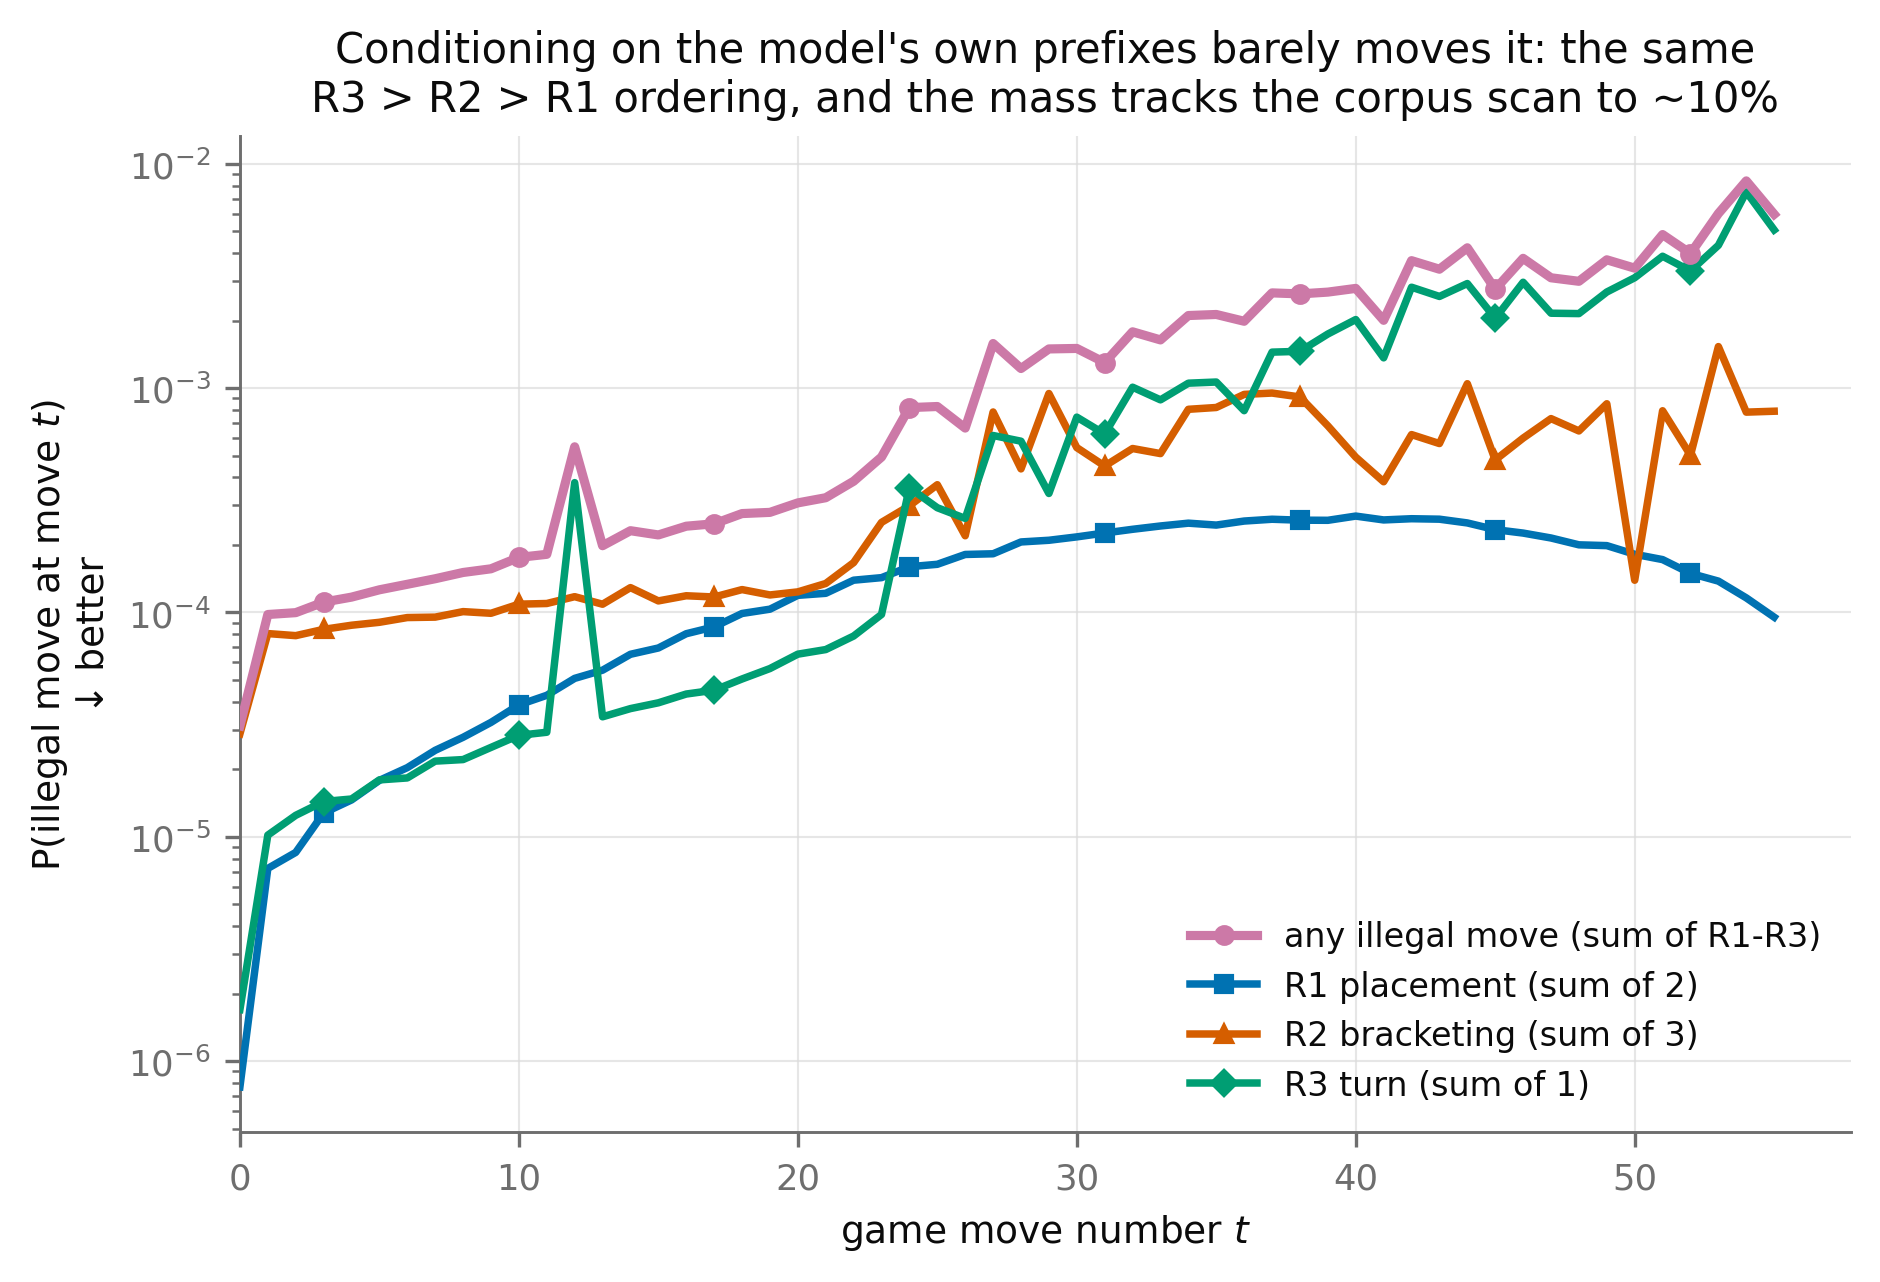
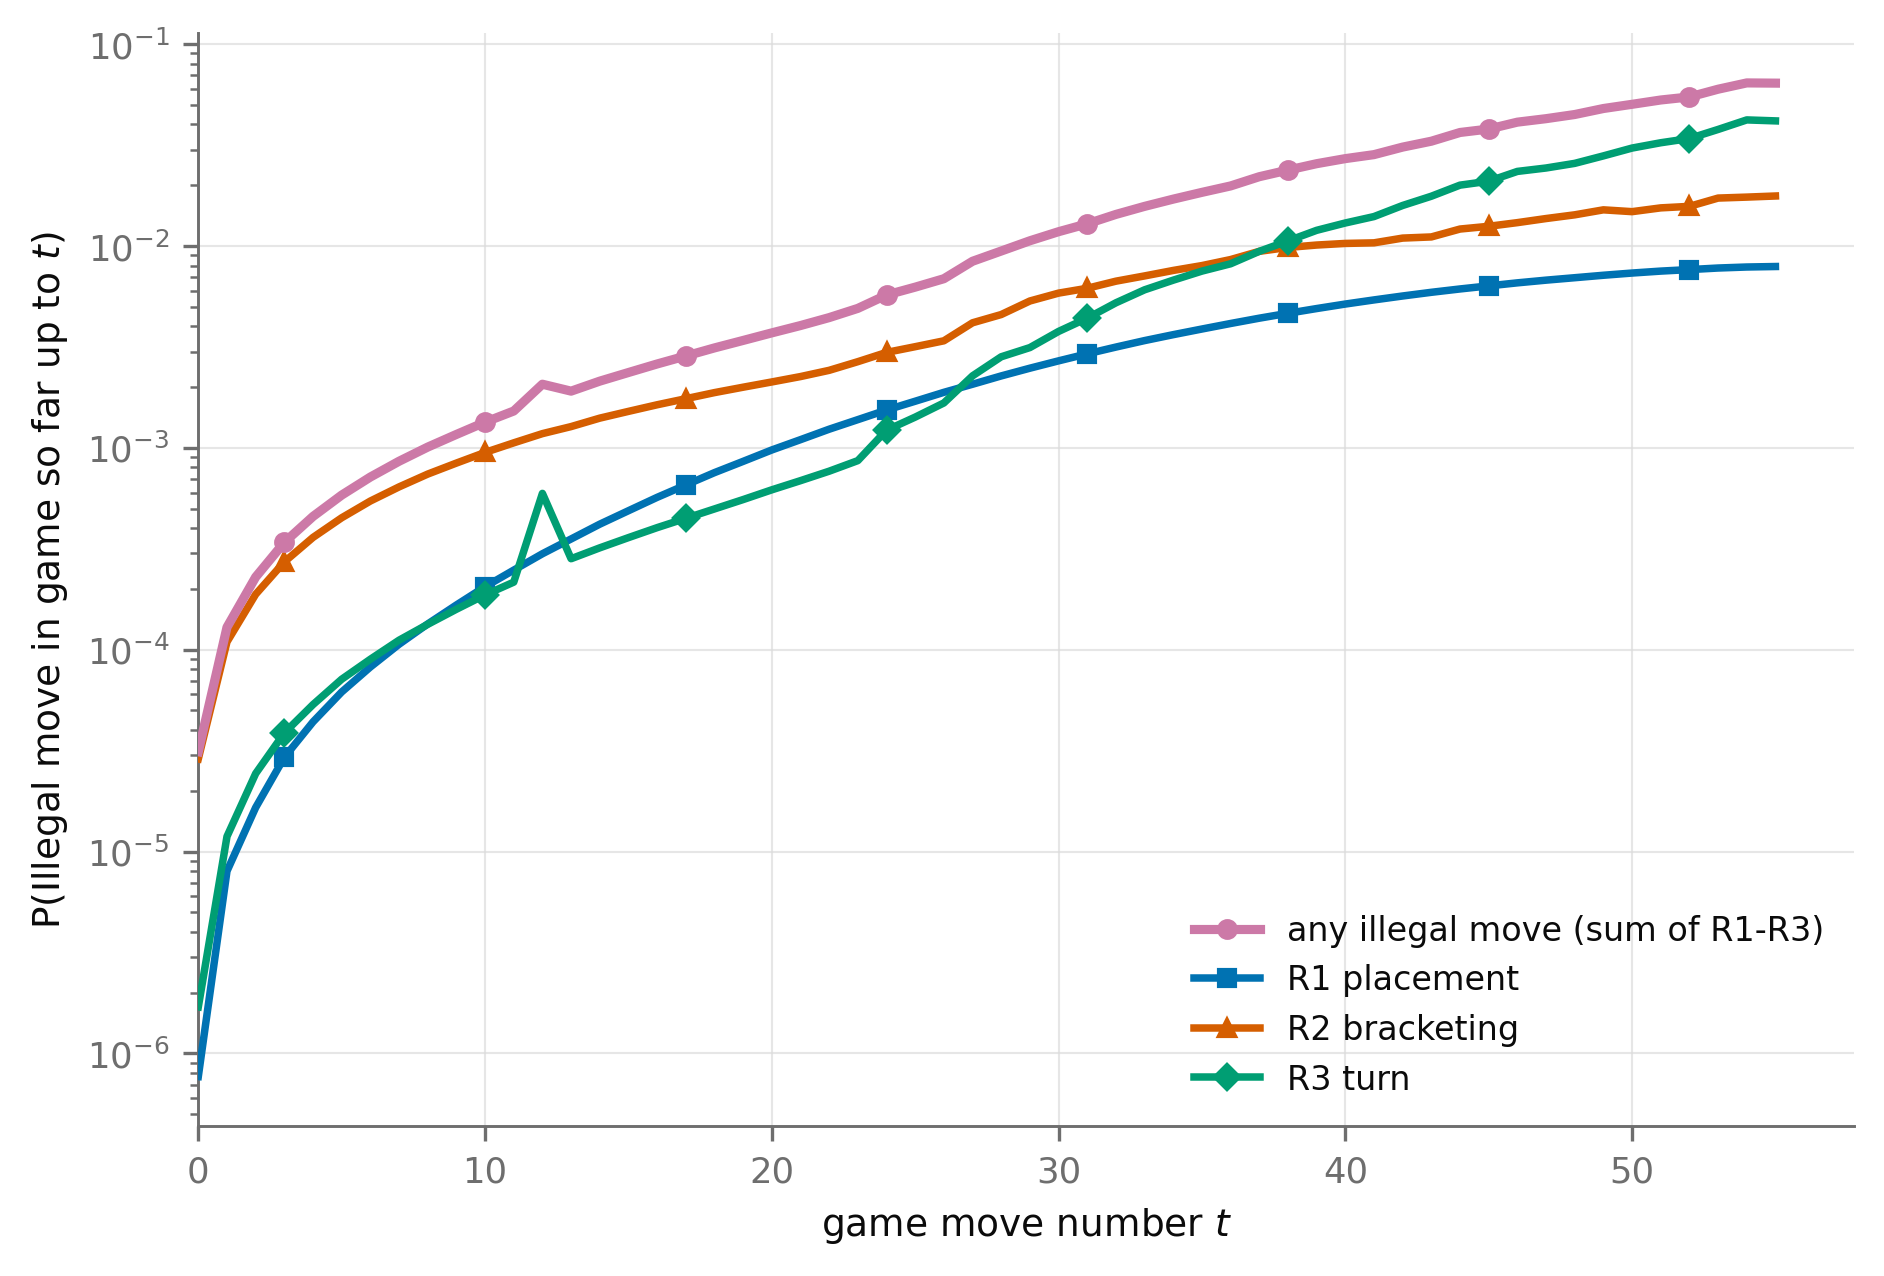
Generation legality F2: accumulate the mass along t
The by-rule rollout panel asked "how much illegal mass sits here" when the
question it is next to is "has this game gone illegal yet". It now draws
cum_*, 1 - prod(1 - p) composed per game along its alive prefix -- computed
in aggregate.py, so make_figures stays drawing-only.

The legend drops (sum of N): a composition over plies of a sum over
categories is neither. The title goes with it; the caption is the README's.
The curve dips at t = 13, 50, 55, where games leave the table -- a per-game
cumulative only rises, a mean over survivors need not, and the README,
docstring and PROCESS all say so.

diff --git a/analysis/generation_legality/make_figures.py b/analysis/generation_legality/make_figures.py
@@ -3,7 +3,8 @@
 F1 `generation_legality` — two panels of one study on one canvas:
     (a) by move t, has the model played an illegal move yet? Games it generated itself.
     (b) at move t, how likely is an illegal move of each rule? Corpus prefixes.
-F2 `generation_legality_by_rule_rollout` — (b) on prefixes the model generated for itself
+F2 `generation_legality_by_rule_rollout` — by move t, how likely is it that the game has
+    taken an illegal move of each rule already? Prefixes the model generated for itself.
 
 (a) and (b) sit in one figure because neither answers the other's question: (a) says the
 model does emit illegal moves while it plays, (b) says which of the three constraint rules
@@ -15,15 +16,20 @@ accumulated, or (a) as a per-move rate, is the misreading the pair invites, so e
 states which it is on its y axis. Their prefix distributions differ too -- (a)'s games the
 model wrote, (b)'s games handed to it -- and that is what each panel title says.
 
-F2 is (b) exactly, drawn by the same function, and differs only in where the legal prefix
-came from. It is conditional on survival -- a rollout leaves the table at its first illegal
-move -- so its n falls along the move axis. (b) conditions on a legal prefix too, which is
-what makes the pair comparable; neither is P(illegal at ply t) unconditionally.
+F2 draws (b)'s mass on the model's own prefixes and **accumulated**: `cum_*` in
+`rollout_by_move.csv` is `1 - prod(1 - p)` composed per game along t, so it answers "has this
+game gone illegal yet", the same question (a) asks of sampled play, off the distribution
+rather than off sampled events. It is conditional on survival -- a rollout leaves the table at
+its first illegal move -- so its n falls along the move axis, and the curve dips where they
+leave: a per-game cumulative only rises, but a mean over survivors loses the games carrying
+the most accumulated mass. (b) conditions on a legal prefix too; neither is P(illegal at ply
+t) unconditionally.
 
-The rule series are **sums** over their taxonomy categories, not means, so the legend says
-`sum of 3` (FIGURE_GUIDELINES 1.7). The estimator, the falling n and each source's
-within-rule / between-rule spread are in README.md's "Figure notes"; `overall.csv` carries
-the spread itself.
+(b)'s rule series are **sums** over their taxonomy categories, not means, so its legend says
+`sum of 3` (FIGURE_GUIDELINES 1.7). F2's are not sums -- a composition over plies of a sum
+over categories is neither -- so they carry the rule name alone. The estimator, the falling n
+and each source's within-rule / between-rule spread are in README.md's "Figure notes";
+`overall.csv` carries the spread itself.
 
 Usage: python analysis/generation_legality/make_figures.py [--results DIR] [--camera-ready]
 """
@@ -46,9 +52,6 @@ RULES = {rule.split()[0]: (rule, members) for rule, members in RULE_MEMBERS.item
 MARKS = 8          # markers per curve; the move axis has 56 points
 SIZE = (6.4, 4.4)  # one panel, drawn at the width a two-column figure is printed at
 PAIR = (9.4, 4.4)  # two panels side by side (FIGURE_GUIDELINES 2)
-
-ROLLOUT_TITLE = ("Conditioning on the model's own prefixes barely moves it: the same\n"
-                 "R3 > R2 > R1 ordering, and the mass tracks the corpus scan to ~10%")
 
 
 def read(results: Path) -> dict[str, pd.DataFrame]:
@@ -97,6 +100,12 @@ def survival_panel(ax, survival: pd.DataFrame) -> float:
     return float(end.value)
 
 
+def log_y(ax) -> None:
+    ax.set_yscale("log")
+    ax.yaxis.set_major_formatter(
+        FuncFormatter(lambda v, _: f"$10^{{{int(round(np.log10(v)))}}}$"))
+
+
 def rules_panel(ax, tables: dict[str, pd.DataFrame], source: str) -> None:
     """Per move, split by the constraint rule the illegal move would break.
 
@@ -112,14 +121,33 @@ def rules_panel(ax, tables: dict[str, pd.DataFrame], source: str) -> None:
         rows = move_series(by_move, f"p_{key}")
         curve(ax, rows.t, rows, RULE_STYLE[rule], f"{rule} (sum of {len(members)})", zorder=5)
 
-    ax.set_yscale("log")
-    ax.yaxis.set_major_formatter(
-        FuncFormatter(lambda v, _: f"$10^{{{int(round(np.log10(v)))}}}$"))
+    log_y(ax)
     ax.set_xlabel("game move number $t$")
     ax.set_ylabel("P(illegal move at move $t$)\n↓ better")
     ax.set_xlim(left=0)
     # Lower right: the rules all rise, so the late-game floor is the only region a legend
     # does not sit on, and four entries do not fit beside the curves in half a canvas.
+    ax.legend(loc="lower right", fontsize=8)
+
+
+def cumulative_panel(ax, by_move: pd.DataFrame) -> None:
+    """The same mass, composed along t: has the game gone illegal by move t, and on what.
+
+    Rising by construction, and it does not fold into `rules_panel`: a cumulative curve is a
+    different quantity with a different label, and its series are compositions rather than
+    the per-ply sums that panel's legend names.
+    """
+    total = move_series(by_move, "cum_illegal")
+    curve(ax, total.t, total, GENERATION_STYLE["mass"], GENERATION_STYLE["mass"]["label"],
+          zorder=6, lw=2.2)
+    for key, (rule, _) in RULES.items():
+        rows = move_series(by_move, f"cum_{key}")
+        curve(ax, rows.t, rows, RULE_STYLE[rule], rule, zorder=5)
+
+    log_y(ax)
+    ax.set_xlabel("game move number $t$")
+    ax.set_ylabel("P(Illegal move in game so far up to $t$)")
+    ax.set_xlim(left=0)
     ax.legend(loc="lower right", fontsize=8)
 
 
@@ -141,12 +169,10 @@ def legality_figure(tables: dict[str, pd.DataFrame], camera_ready: bool) -> Path
 
 
 def rollout_figure(tables: dict[str, pd.DataFrame], camera_ready: bool) -> Path:
-    """(b) on the prefixes the model wrote itself. Standalone, so it owns its whole key and
-    drops the panel letter (FIGURE_GUIDELINES 5)."""
+    """Accumulated mass on the prefixes the model wrote itself. Standalone, so it owns its
+    whole key and drops the panel letter (FIGURE_GUIDELINES 5)."""
     fig, ax = plt.subplots(figsize=SIZE)
-    rules_panel(ax, tables, "rollout_by_move")
-    if not camera_ready:
-        ax.set_title(ROLLOUT_TITLE, fontsize=10)
+    cumulative_panel(ax, tables["rollout_by_move"])
     fig.tight_layout()
     return save_figure(fig, FIGURES / "generation_legality_by_rule_rollout", camera_ready)
 

diff --git a/src/spade/generation_legality/aggregate.py b/src/spade/generation_legality/aggregate.py
@@ -119,12 +119,23 @@ def by_move(game: dict, w: np.ndarray) -> pd.DataFrame:
         for metric, point, lo, hi in rows for i, t in enumerate(POSITIONS)])
 
 
+def running_hit(p: np.ndarray) -> np.ndarray:
+    """P(at least one such move so far), composed along each game's alive prefix.
+
+    `survival`'s teacher-forced rule, `1 - prod(1 - p)`, run per game and left ragged: a dead
+    cell stays NaN, so the mean at t is over the games alive at t and the conditioning is the
+    per-move metrics' conditioning exactly.
+    """
+    return np.where(np.isfinite(p), 1 - np.cumprod(1 - np.nan_to_num(p), axis=1), np.nan)
+
+
 def rollout_by_move(frame: pd.DataFrame, w: np.ndarray) -> pd.DataFrame:
     """`by_move` over the self-generated prefixes of `rollout_scan`, with n alive per ply.
 
-    Same metrics and same estimator as `by_move`; only the prefix distribution differs. The
-    skew columns are not recomputed here -- the by-rule figure draws mass, and a matched-null
-    ratio conditional on survival is a different statistic that nothing plots.
+    Same metrics and same estimator as `by_move`; only the prefix distribution differs. Each
+    rule also gets its `cum_` composition along t, which is what the by-rule figure draws. The
+    skew columns are not recomputed here -- a matched-null ratio conditional on survival is a
+    different statistic that nothing plots.
     """
     n_games = len(w[0])
 
@@ -139,6 +150,8 @@ def rollout_by_move(frame: pd.DataFrame, w: np.ndarray) -> pd.DataFrame:
 
     values = {m: grid(m) for m in ["p_legal", *(f"p_{n}" for n in RULES + CATEGORIES[1:])]}
     values["p_illegal"] = sum(values[f"p_{r}"] for r in RULES)
+    values |= {f"cum_{name}": running_hit(values[f"p_{name}"])
+               for name in [*RULES, "illegal"]}
     alive = np.isfinite(values["p_legal"]).sum(0)
     rows = [(metric, *nan_mean_ci(value, w)) for metric, value in values.items()]
     return pd.DataFrame([

diff --git a/analysis/generation_legality/README.md b/analysis/generation_legality/README.md
@@ -156,10 +156,12 @@ CSVs and the prose above, not in a plot.
 
 `figures/generation_legality_by_rule_rollout.png` — **Conditioning on the model's own
 prefixes barely moves it: the same R3 > R2 > R1 ordering, and the mass tracks the corpus
-scan to ~10%.** Panel (b) exactly, drawn by the same function, on prefixes the model generated for
-itself instead of corpus games handed to it. Ratio of rollout to teacher-forced mass: median
-**0.996** over the move axis, **0.907** late (*t* ≥ 40), pooled **0.993**; the ordering and
-the R1 suppression are unchanged. The late deficit is **survivorship, not the model behaving
+scan to ~10%.** Panel (b)'s mass on prefixes the model generated for itself instead of corpus
+games handed to it, and **accumulated along the move axis** rather than read per move: each
+curve is P(the game has taken an illegal move of this rule by *t*). The ratio below is a
+per-move quantity and is read off the `p_*` columns, which the CSV still carries. Ratio of
+rollout to teacher-forced mass: median **0.996** over the move axis, **0.907** late
+(*t* ≥ 40), pooled **0.993**; the ordering and the R1 suppression are unchanged. The late deficit is **survivorship, not the model behaving
 better** — a rollout leaves the table at its first illegal move, and the games that leave are
 the ones carrying the most illegal mass. n falls 1000 → 891 across the axis. Its own
 within-rule ÷ between-rule spread is 0.89, the same story as (b)'s 0.95.
@@ -231,7 +233,11 @@ The estimator lines the panels used to print under themselves, in their own word
   Within-rule ÷ between-rule spread = 0.95 (SD of log₁₀ share over the 6 taxonomy
   categories): it is R2 that drives it, and R3 has a single member, so on this axis R2
   is closer to a label than a class.
-- `figures/generation_legality_by_rule_rollout.png` — per move, not cumulative; means over
-  the games still legal at each *t*, *n* falling 1000 → 891: a rollout leaves the table at
-  its first illegal move, so *n* falls along the axis. 95% bootstrap CIs are in
-  `results/rollout_by_move.csv`, not drawn. Within-rule ÷ between-rule spread = 0.89.
+- `figures/generation_legality_by_rule_rollout.png` — cumulative: the `cum_*` metrics of
+  `results/rollout_by_move.csv`, `1 - ∏(1 - p)` composed per game along *t*, so each curve
+  reads "has this game taken an illegal move of this rule by *t*". Means over the games still
+  legal at each *t*, *n* falling 1000 → 891: a rollout leaves the table at its first illegal
+  move, so *n* falls along the axis. **A per-game cumulative only rises; the mean over
+  survivors need not.** It dips at *t* = 13, 50 and 55 — the plies where games leave, and the
+  ones that leave are carrying the most accumulated mass. 95% bootstrap CIs are in the same
+  CSV, not drawn. Within-rule ÷ between-rule spread = 0.89.

diff --git a/PROCESS.md b/PROCESS.md
@@ -1298,6 +1298,16 @@ illegal mass. Everything in `rollout/positions.csv` is conditional on survival; 
 1000 -> 891 and the panel prints it. `scan.py`'s table conditions on a legal prefix too,
 which is what makes the pair comparable at all.
 
+**F2 went cumulative (2026-08-24).** The panel now draws `cum_*` — `1 - prod(1 - p)` composed
+per game along t, computed in `aggregate.py` beside the per-move metrics, so the figure stays
+drawing-only. It answers F1(a)'s question off the distribution instead of off sampled play:
+has this game gone illegal yet, and on which rule. Two things came with it. The legend drops
+`(sum of N)`, because a composition over plies of a sum over categories is neither. And the
+curve is not monotone — it dips at t = 13, 50, 55, the plies where games leave the table,
+since a per-game cumulative only rises but a mean over survivors loses the games carrying the
+most accumulated mass. That is the same survivorship the ratio's late-game dip is, one axis
+over. The in-figure title is gone (the caption is this README's).
+
 **The rollout population is now a bank, because it was being redrawn per study.**
 `sample_rollouts` was shared but nothing else was: `straightness` and `generation_legality`
 each spent a GPU pass at their own seed, so "the rollouts" named two populations and neither
